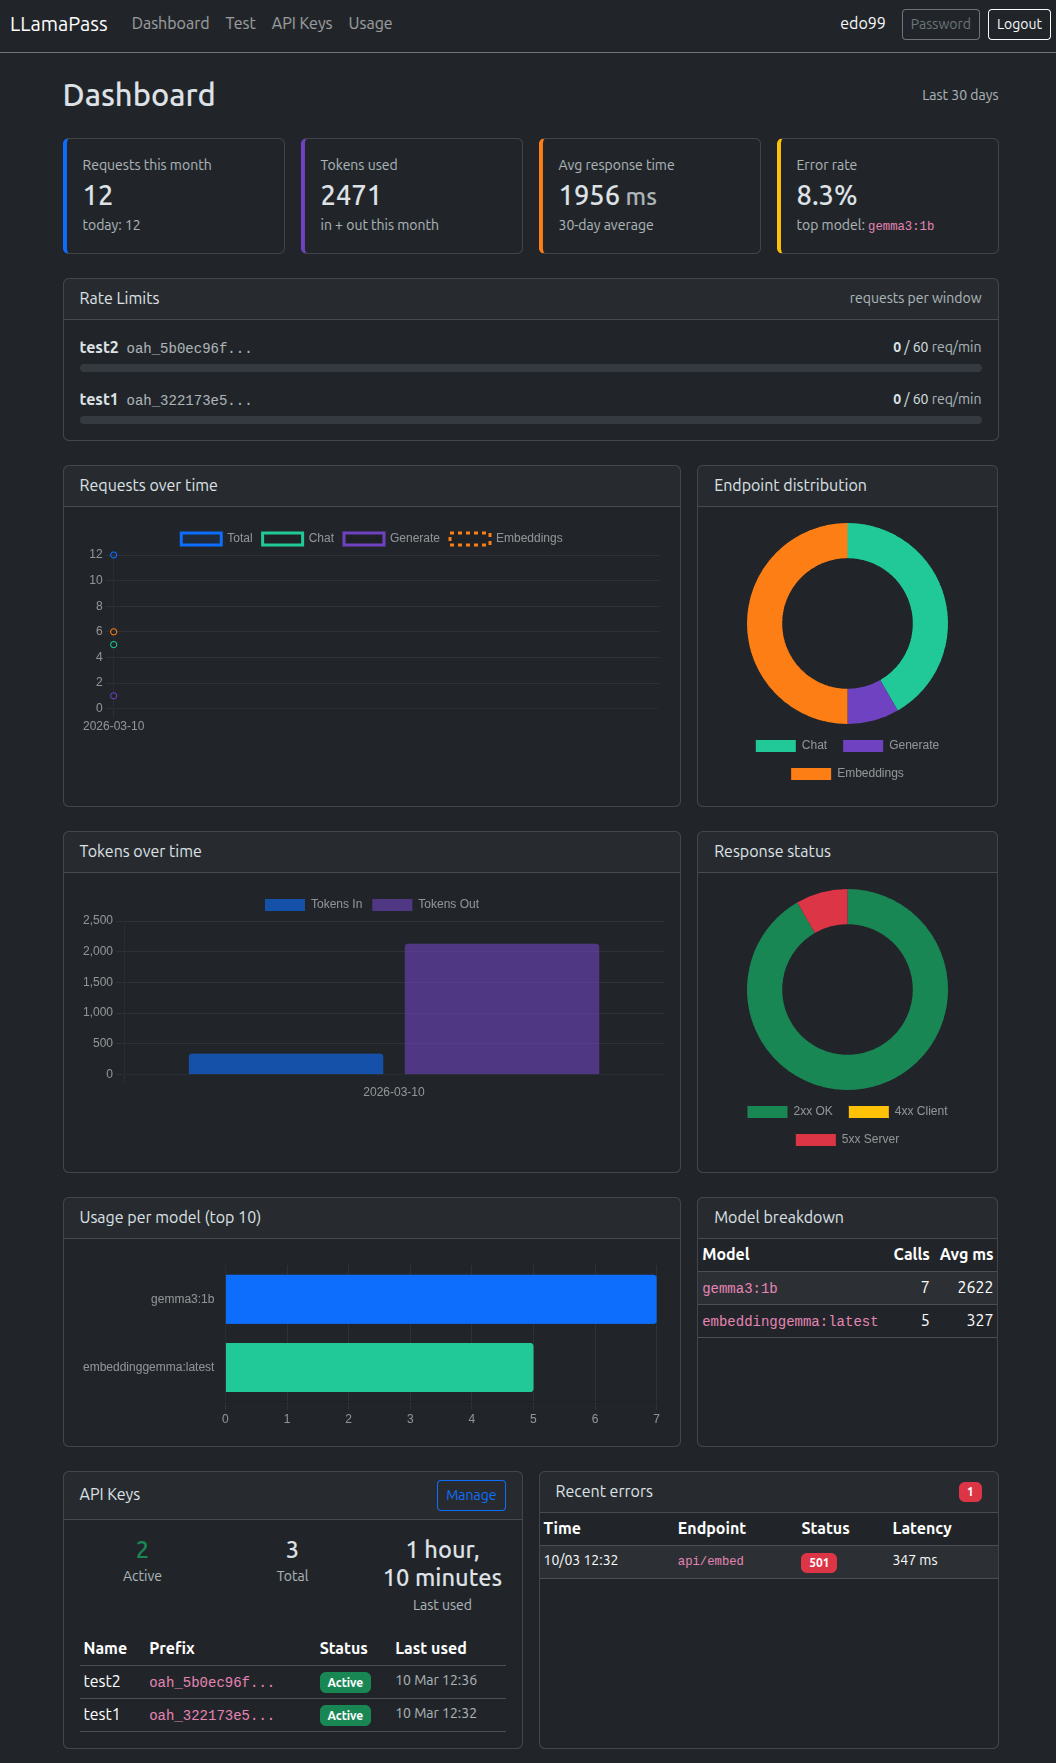
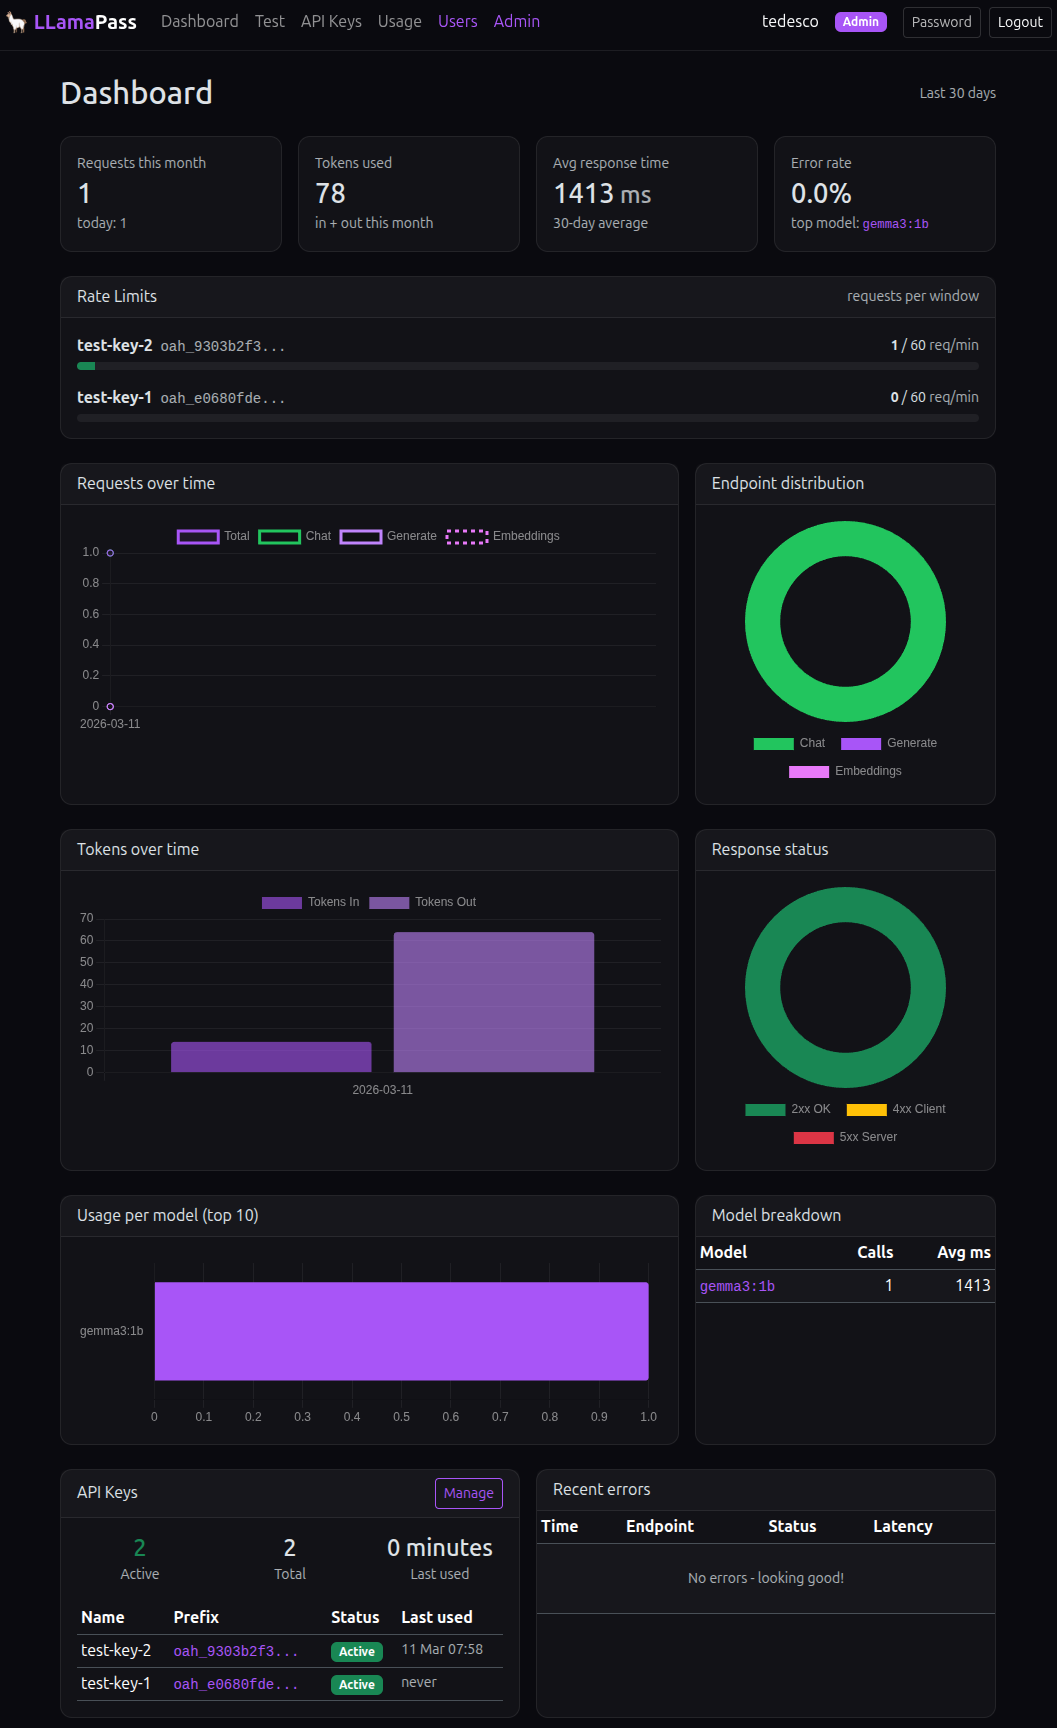
Update README with new features and screenshots
- Add invite codes and admin approval to features list
- Add user management/invitations screenshot
- Update git clone URLs to llamapass.git
- Add CSRF_TRUSTED_ORIGINS to config table
- Remove live demo link, update tech stack description
- Remove old embedding screenshot, add new ones

diff --git a/README.md b/README.md
@@ -2,26 +2,27 @@
 
 A self-hosted API gateway for [Ollama](https://ollama.com) with multi-user support, API key management, rate limiting, and usage tracking. Built with Django.
 
-**Live demo:** [llamapass.org](https://llamapass.org)
-
 ## Screenshots
 
-### Dashboard
+### Landing Page & Dashboard
 ![Dashboard](screens/dashboard.png)
 
 ### API Keys
 ![API Keys](screens/keys.png)
 
-### Test
-![Test - Chat](screens/chat.png)
-![Test - Embeddings](screens/embedding.png)
+### Built-in Chat Test
+![Chat](screens/chat.png)
+
+### User Management & Invite Codes
+![User Management](screens/invitations.png)
 
 ### Usage Guide
 ![Usage](screens/usage.png)
 
 ## Features
 
-- **Multi-user** — Registration, login, password management
+- **Multi-user with admin approval** — Registration with invite codes for instant access, or manual admin approval
+- **Invite codes** — Admins generate invite codes with max uses and expiration to control who joins
 - **API key management** — Create, revoke, set expiration (7d–1y), per-key model restrictions
 - **Rate limiting** — Configurable per-key limits (e.g. `60/min`, `1000/hour`) with live dashboard monitoring
 - **Usage dashboard** — 30-day stats with charts: requests, tokens, latency, errors, model breakdown
@@ -31,15 +32,15 @@ A self-hosted API gateway for [Ollama](https://ollama.com) with multi-user suppo
 - **Authentication** — `Authorization: Api-Key`, `Authorization: Bearer` (OpenAI SDK compatible), `X-API-Key`
 - **Admin-only endpoints** — Pull, push, create, delete, copy restricted to staff users
 - **Docker ready** — Docker Compose with Redis for production-grade rate limiting
-- **Dark mode** — Bootstrap 5.3 dark theme
+- **Dark theme** — Custom dark purple theme across the entire app
 
 ## Quick Start
 
 ### Docker (recommended)
 
 ```bash
-git clone https://github.com/edoardoted99/django-api-hub-ollama.git
-cd django-api-hub-ollama
+git clone https://github.com/edoardoted99/llamapass.git
+cd llamapass
 cp .env.example .env  # edit SECRET_KEY
 docker compose up --build
 docker compose exec web python manage.py createsuperuser
@@ -50,8 +51,8 @@ The app runs at `http://localhost:8000`. Ollama must be running on the host mach
 ### Local development
 
 ```bash
-git clone https://github.com/edoardoted99/django-api-hub-ollama.git
-cd django-api-hub-ollama
+git clone https://github.com/edoardoted99/llamapass.git
+cd llamapass
 python -m venv .venv
 source .venv/bin/activate
 pip install -r requirements.txt
@@ -70,6 +71,7 @@ Edit `.env`:
 | `SECRET_KEY` | `insecure-dev-key` | Django secret key |
 | `DEBUG` | `False` | Debug mode |
 | `ALLOWED_HOSTS` | `localhost,127.0.0.1` | Comma-separated hosts |
+| `CSRF_TRUSTED_ORIGINS` | `` | Required if behind HTTPS proxy (e.g. `https://yourdomain.com`) |
 | `OLLAMA_UPSTREAM_BASE_URL` | `http://127.0.0.1:11434` | Ollama server URL |
 | `ENABLE_STREAMING` | `True` | Enable streaming responses |
 | `DEFAULT_RATE_LIMIT` | `60/min` | Default rate limit per key |
@@ -113,6 +115,6 @@ print(response.choices[0].message.content)
 - Django 5.1 + uvicorn (ASGI)
 - httpx (async proxy)
 - Redis + django-redis (rate limiting)
-- Bootstrap 5.3 (dark mode)
+- Bootstrap 5.3 + custom dark purple theme
 - SQLite
 - Docker + Docker Compose
